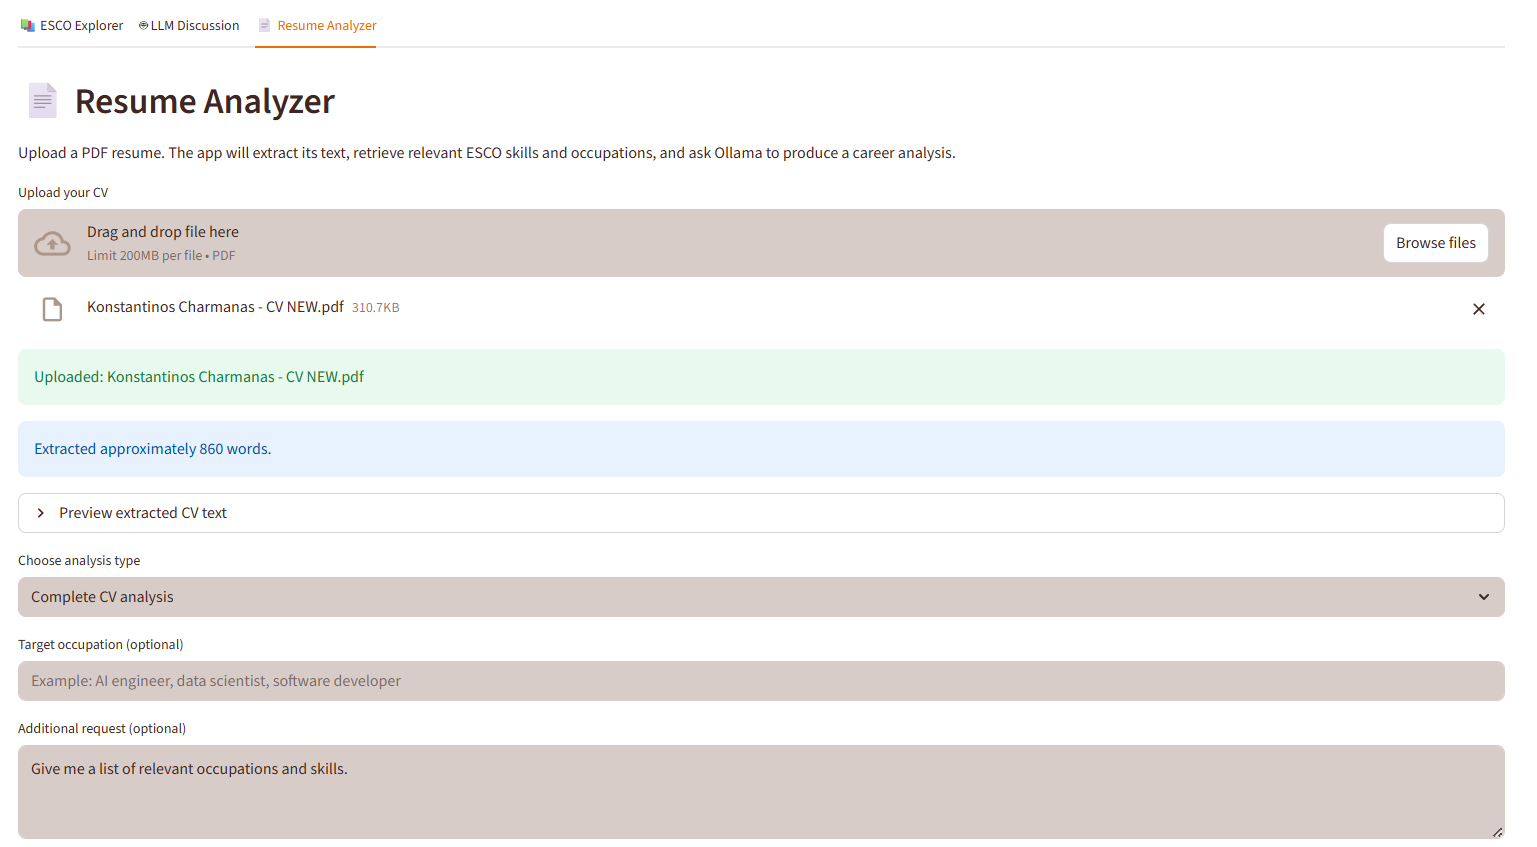
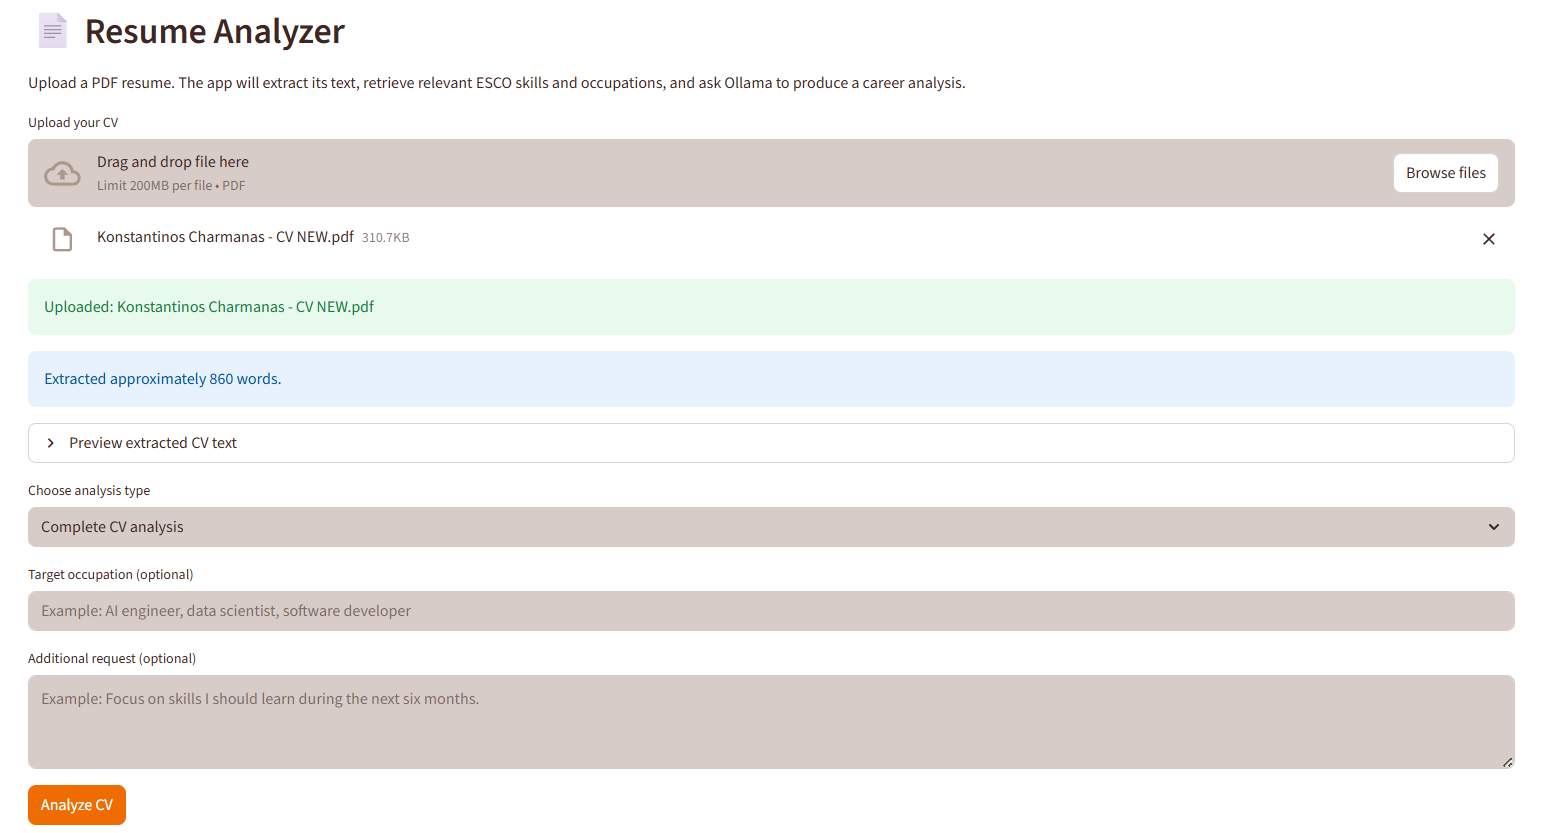
test olama

diff --git a/rag/rag_chain.py b/rag/rag_chain.py
@@ -12,7 +12,7 @@ from utils.esco_relations import get_skill_occupations , get_occupation_skills ,
 
 
 def sent_split(text):
-    split_text = re.split(r'[.,;:·]+', text)#\n
+    split_text = re.split(r'[.,;:·\n]+', text)#\n
 
     split_text = [
         part.strip()
@@ -31,6 +31,7 @@ def ask_rag(
     relations,
     relations_skills,
     context_input=None,
+    add_relations=True
 ):
     """
     Complete RAG pipeline:
@@ -59,55 +60,56 @@ def ask_rag(
 
     context="Found ESCO Occupations and Skills:\n\n"+context
 
-    # Expand using ESCO relationships
-    for doc in documents:
+    if add_relations:
 
-        # Occupation document
-        if doc.metadata["type"] == "occupation":
+        # Expand using ESCO relationships
+        for doc in documents:
 
-            occupation_uri = doc.metadata["uri"]
+            # Occupation document
+            if doc.metadata["type"] == "occupation":
 
-            occupation_skills = get_occupation_skills(
-                occupation_uri,
-                relations,
-                skills
-            )
+                occupation_uri = doc.metadata["uri"]
 
-            context += f"\n\nFor Occupation {doc.metadata['name']}, Related ESCO skills:\n"
-
-            for _, skill in occupation_skills.iterrows():
-                context += (
-                    f"- {skill['preferredLabel']}\n"
+                occupation_skills = get_occupation_skills(
+                    occupation_uri,
+                    relations,
+                    skills
                 )
 
+                context += f"\n\nFor Occupation {doc.metadata['name']}, Related ESCO skills:\n"
 
-        # Skill document
-        elif doc.metadata["type"] == "skill":
+                for _, skill in occupation_skills.iterrows():
+                    context += (
+                        f"- {skill['preferredLabel']}\n"
+                    )
 
-            skill_uri = doc.metadata["uri"]
 
-            related_occupations = get_skill_occupations(
-                skill_uri,
-                relations,
-                occupations
-            )
+            # Skill document
+            elif doc.metadata["type"] == "skill":
 
-            context += f"\n\nFor Skill {doc.metadata['name']}, Related ESCO occupations:\n"
+                skill_uri = doc.metadata["uri"]
 
-            for _, occupation in related_occupations.iterrows():
-                context += (
-                    f"- {occupation['preferredLabel']}\n"
+                related_occupations = get_skill_occupations(
+                    skill_uri,
+                    relations,
+                    occupations
                 )
-            #'''
-            related_skills = get_skill_skills(skill_uri,relations_skills,skills)
 
-            context += f"\n\nFor Skill {doc.metadata['name']},Related ESCO skills:\n"
+                context += f"\n\nFor Skill {doc.metadata['name']}, Related ESCO occupations:\n"
 
-            for _, skill in related_skills.iterrows():
-                context += (
-                    f"- {skill['preferredLabel']}\n"
-                )
-            #'''
+                for _, occupation in related_occupations.iterrows():
+                    context += (
+                        f"- {occupation['preferredLabel']}\n"
+                    )
+
+                related_skills = get_skill_skills(skill_uri,relations_skills,skills)
+
+                context += f"\n\nFor Skill {doc.metadata['name']},Related ESCO skills:\n"
+
+                for _, skill in related_skills.iterrows():
+                    context += (
+                        f"- {skill['preferredLabel']}\n"
+                    )
 
 
     # Create prompt
@@ -115,14 +117,19 @@ def ask_rag(
                 You are an AI career advisor.
                 
                 Use the following Found and Related European Skills, Competences, Qualifications and Occupations (ESCO) knowledge (ESCO Skills and Occupations):
-                Highlight the ESCO Occupations and ESCO Skills with bold.
+
                 {context}
+                
+                Notes:
+                Highlight the ESCO Occupations with bold. 
+                Highlight the ESCO Skills with bold.
                 
                 User input:
                 {question}
                 
                 """
 
+    #print (prompt)
 
     # Send to Ollama
     answer = ask_ollama(

diff --git a/main.py b/main.py
@@ -355,6 +355,8 @@ with tab3:
             Additional user request:
             {request_text}
             
+            Resume:
+            {resume_text}
             """
 
                 try:
@@ -369,7 +371,8 @@ with tab3:
                             occupations,
                             relations,
                             relations_skills,
-                            context_input=resume_text
+                            context_input=resume_text,
+                            add_relations=False
                         )
 
                     st.subheader("Analysis")

diff --git a/rag/vector_store.py b/rag/vector_store.py
@@ -52,12 +52,12 @@ def create_vector_store(documents):
 def get_retriever(vector_store):
 
     return vector_store.as_retriever(
-        search_type="mmr",  # search_type="mmr" "similarity"
+        search_type="similarity",  # search_type="mmr" "similarity"
 
         search_kwargs={
-            "k": 20, #"k": 5
-            "fetch_k": 50,
-
+            "k": 5, #"k": 5
+            #"fetch_k": 5,
+            "score_threshold": 0.3
         }
     )
 

diff --git a/rag/document_loader.py b/rag/document_loader.py
@@ -20,6 +20,8 @@ def create_esco_documents(
 
     for _, occupation in occupations.iterrows():
 
+        text=occupation['preferredLabel']
+        '''
         text = f"""
 Occupation:
 {occupation['preferredLabel']}
@@ -30,6 +32,8 @@ Alternative labels:
 Description:
 {occupation['description']}
 """
+        '''
+
 
 
         documents.append(
